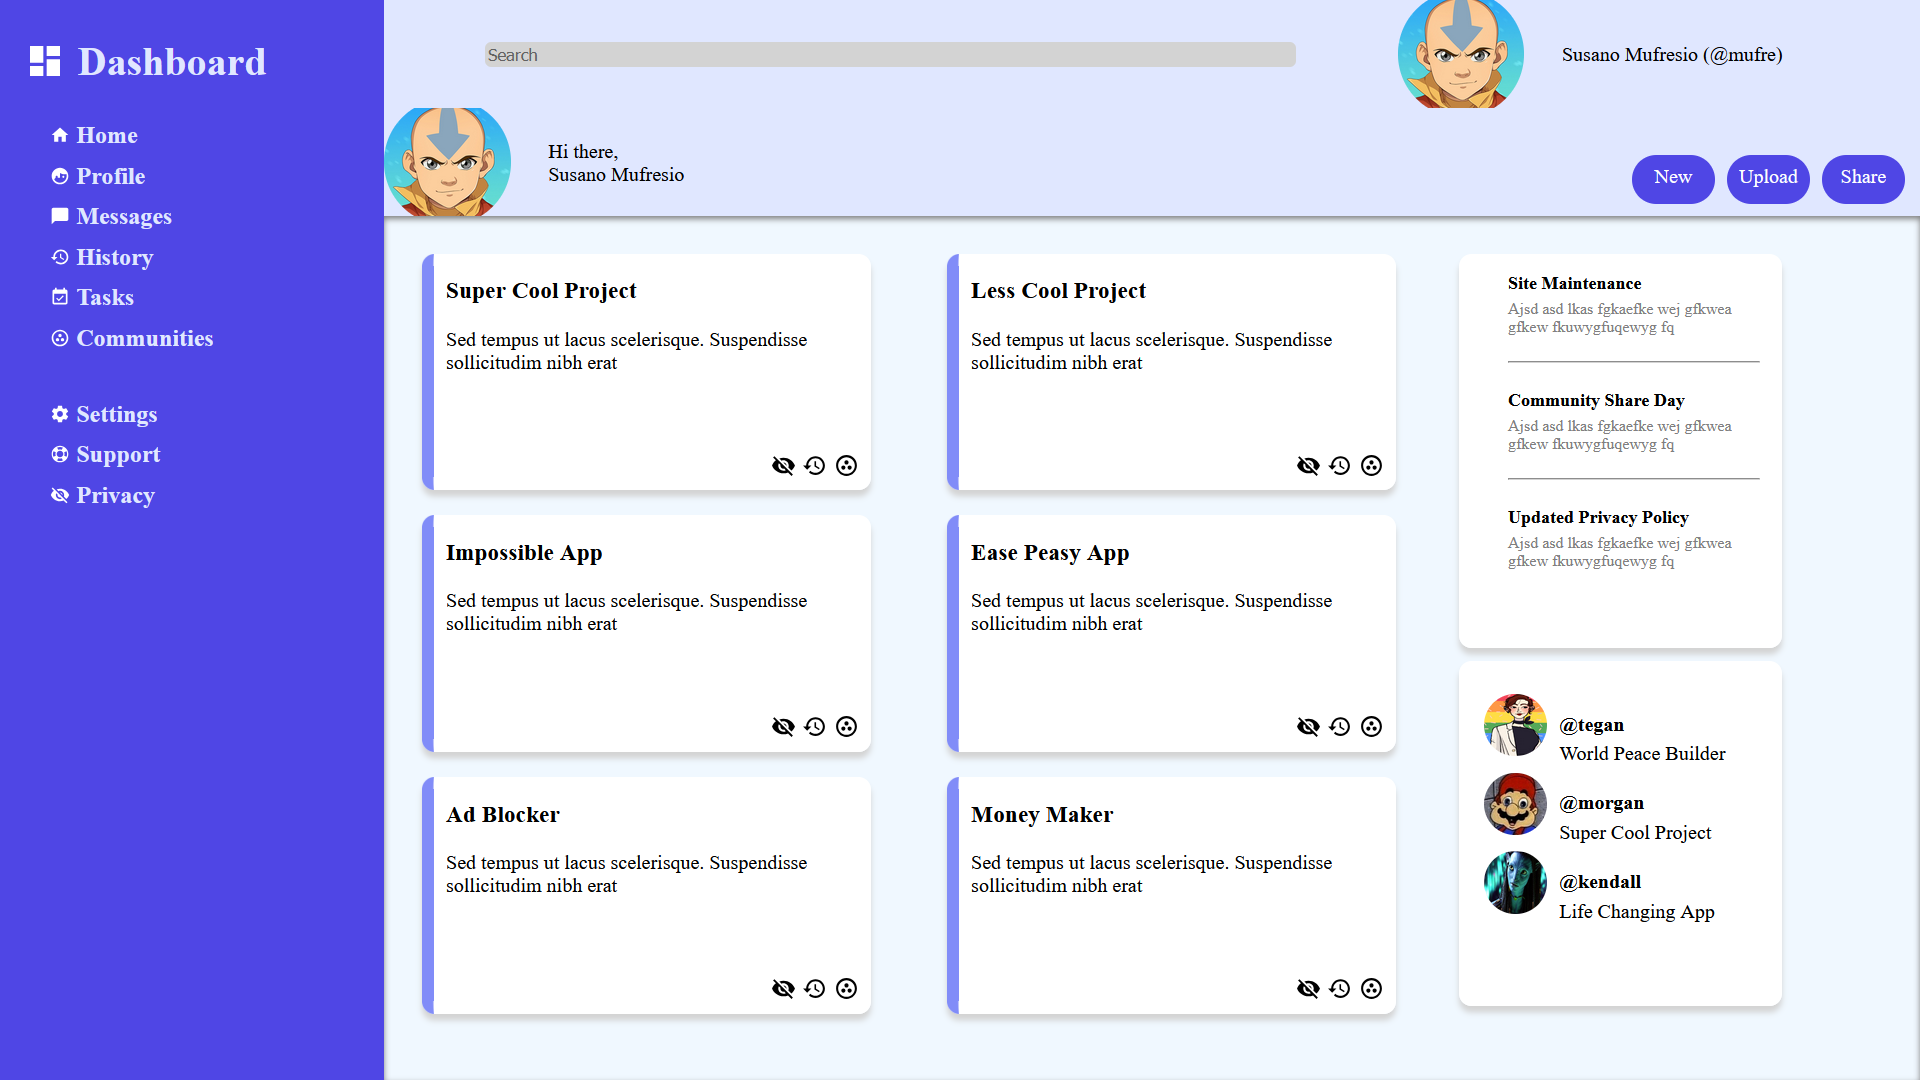
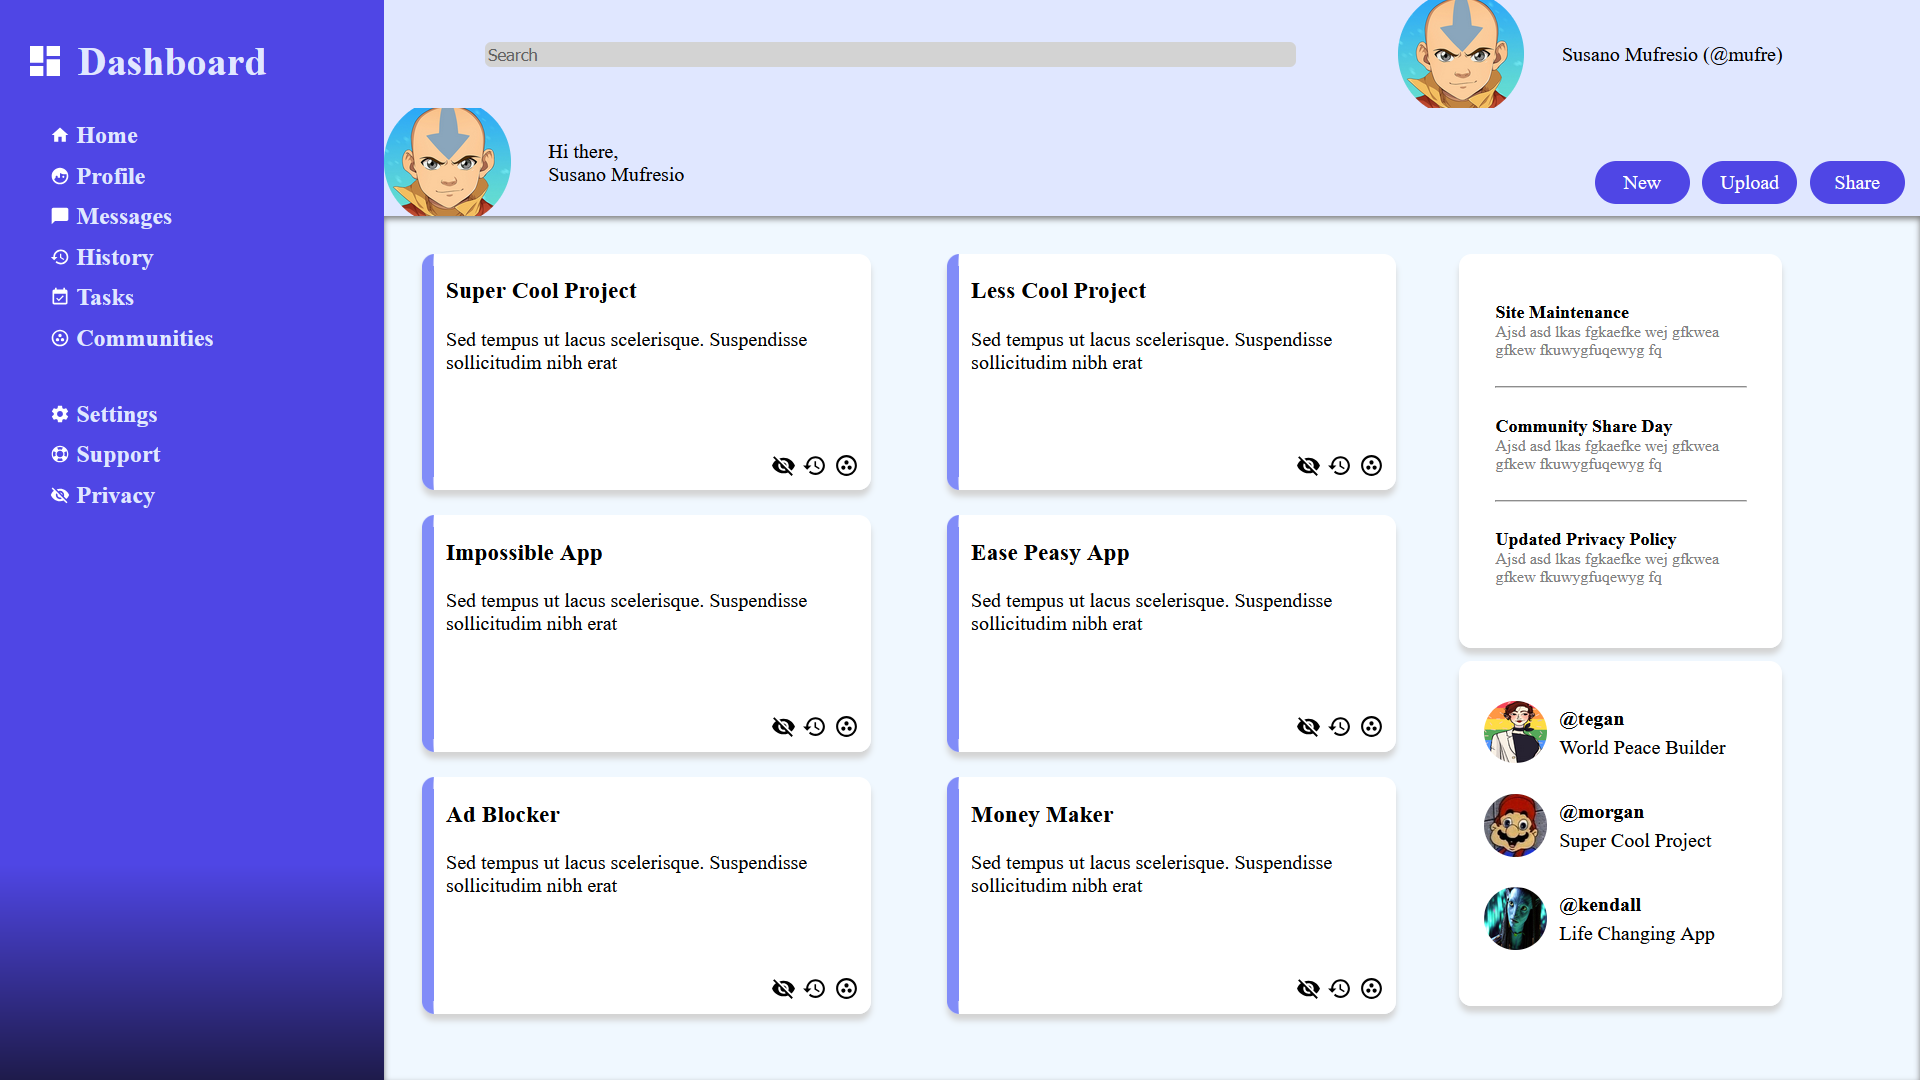
Some Alignments Fixed on #2

diff --git a/2 - Admin Dashboard/assets/style.css b/2 - Admin Dashboard/assets/style.css
@@ -12,7 +12,7 @@ body {
 }
 
 .navbar {
-    background-color: #4f46e5;
+    background-image: linear-gradient(180deg, #4f46e5 0%,#4f46e5 80%, #1e1b4b 100%);
     flex-direction: column;
     display: flex;
 }
@@ -143,8 +143,7 @@ li a:hover {
     background-color: #4f46e5;
     border-radius: 25px;
     padding: 0.5rem;
-    height: 30%;
-    width: 50px;
+    width: 60px;
     justify-content: center;
     display: flex;
     transition-property: background-color;
@@ -216,22 +215,24 @@ input[type="search"] {
 }
 
 .anouncementsList {
-    margin: 10px;
+    margin-top: 15%;
     width: 100%;
-    gap: 10px;
-    align-items: center;
-    flex-direction: column;
-    display: flex;
+    height: 90%;
+    justify-content: space-around;
+    grid-template-rows: 16% 16% 16% 16% 16%;
+    display: grid;
 }
 
 .anouncement {
     width: 200px;
     font-size: 0.8rem;
+    justify-content: center;
+    flex-direction: column;
+    display: flex;
 }
 
 .anouncement h4 {
-    margin-top: 5px;
-    margin-bottom: 5px;
+    margin: 0;
     font-size: 0.9rem;
 }
 
@@ -240,8 +241,6 @@ input[type="search"] {
 }
 
 hr {
-    margin-top: 20px;
-    padding: 0;
     width: 100%;
     color: lightgrey;
 }
@@ -258,6 +257,9 @@ hr {
 
 .trendingContainer {
     margin: 20px;
+    height: 90%;
+    display: grid;
+    grid-template-rows: 30% 30% 30%;
 }
 
 .trendingUnit {
@@ -268,6 +270,7 @@ hr {
 }
 
 .trendingUnit h4 {
+    margin-top: 0;
     margin-bottom: 5px;
 }
 

diff --git a/2 - Admin Dashboard/index.html b/2 - Admin Dashboard/index.html
@@ -114,13 +114,13 @@
                         <div class="anouncement">
                             <h4>Site Maintenance</h4>
                             <span>Ajsd asd lkas fgkaefke wej gfkwea gfkew fkuwygfuqewyg fq</span>
-                        <hr>
                         </div>
+                        <div class="anouncement"> <hr> </div>
                         <div class="anouncement">
                             <h4>Community Share Day</h4>
                             <span>Ajsd asd lkas fgkaefke wej gfkwea gfkew fkuwygfuqewyg fq</span>
-                        <hr>
                         </div>
+                        <div class="anouncement"> <hr> </div>
                         <div class="anouncement">
                             <h4>Updated Privacy Policy</h4>
                             <span>Ajsd asd lkas fgkaefke wej gfkwea gfkew fkuwygfuqewyg fq</span>
